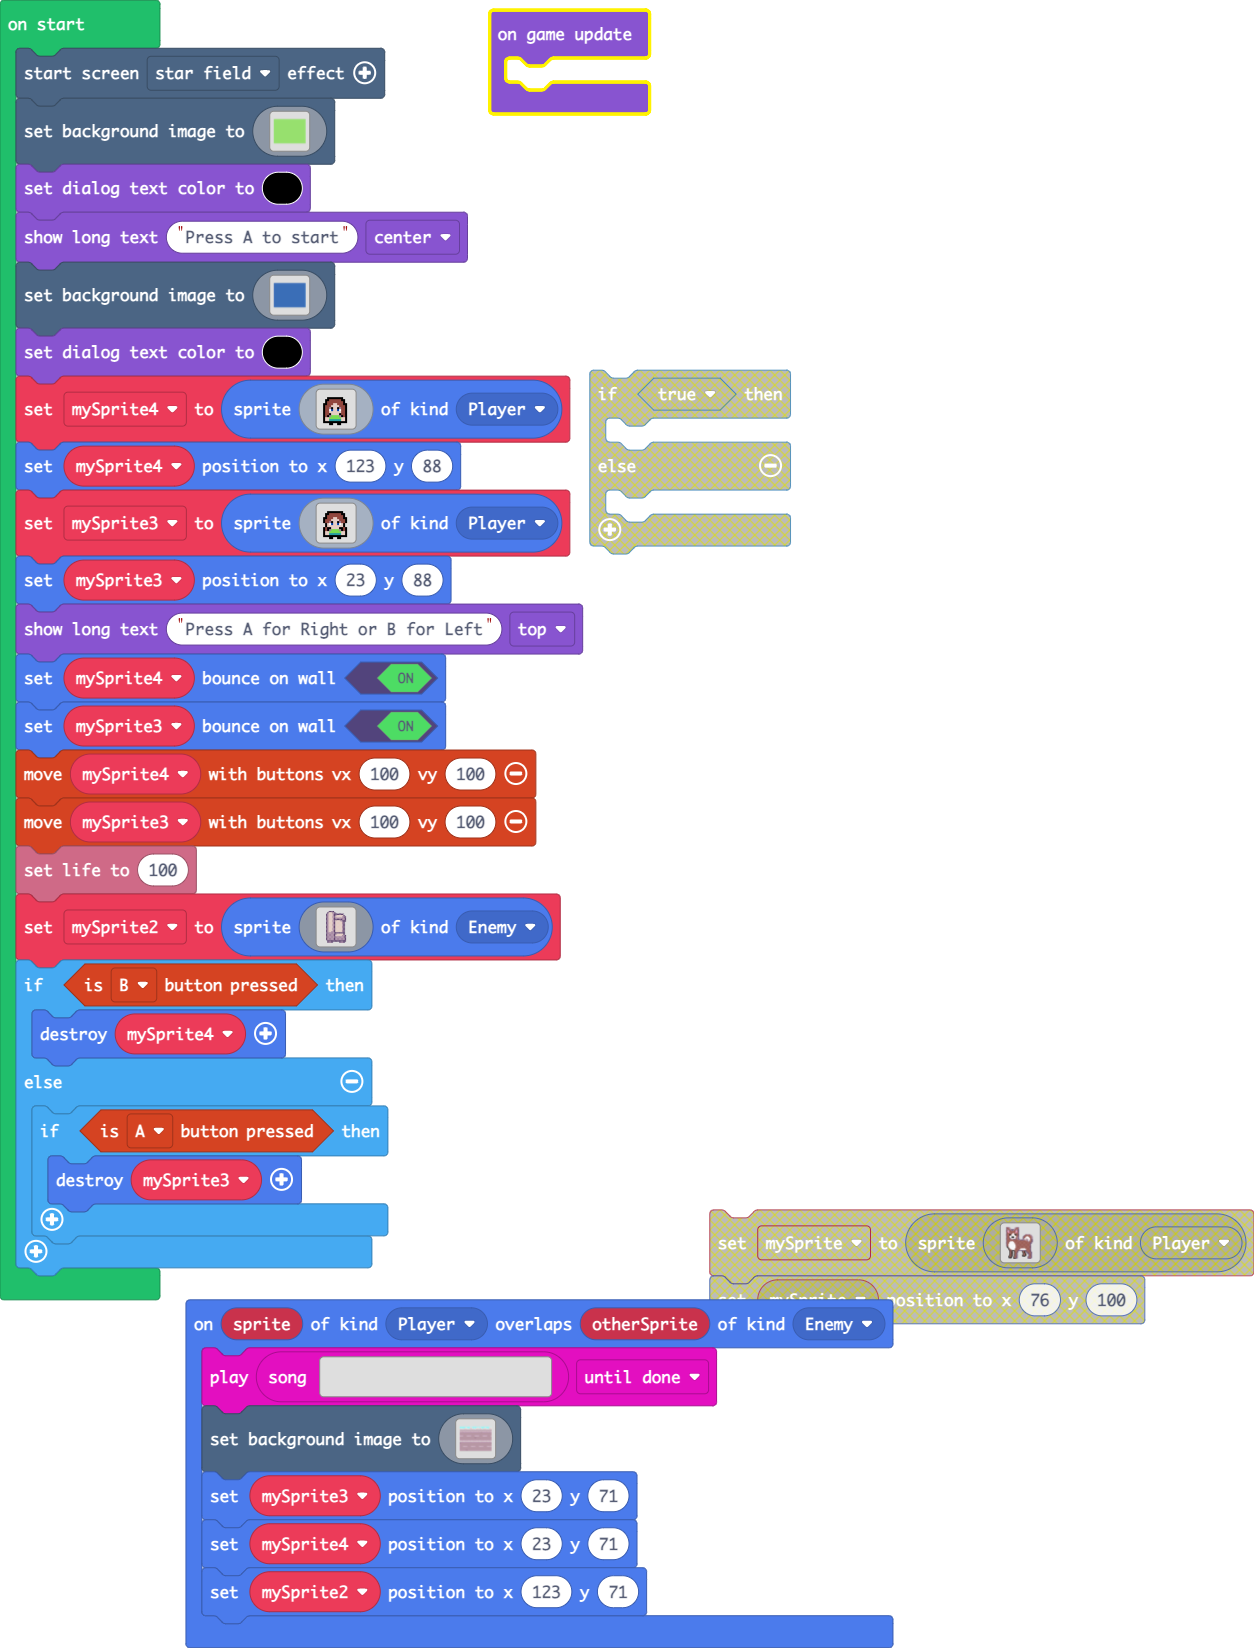
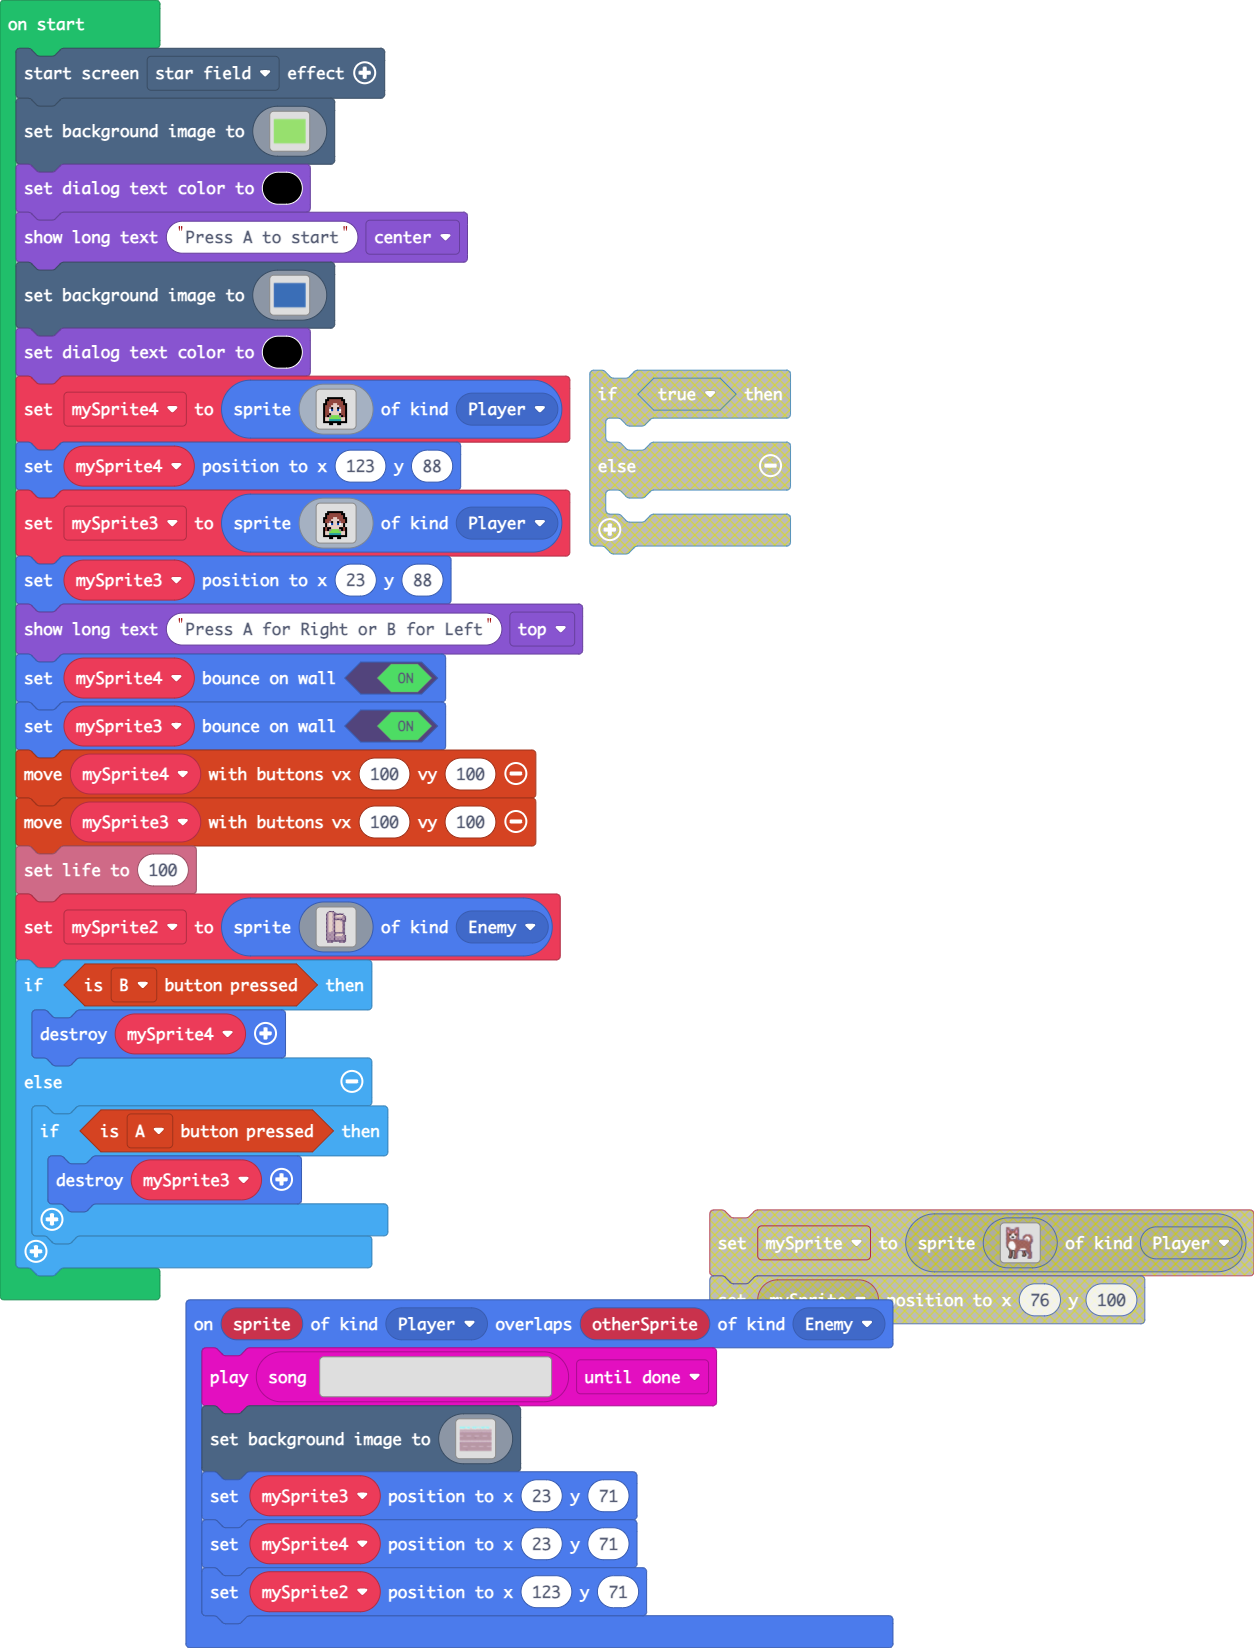
Removed Block

Changed region(s): [[0.3732, 0.0, 0.5287, 0.0928]]

diff --git a/main.ts b/main.ts
@@ -454,6 +454,3 @@ if (controller.B.isPressed()) {
         sprites.destroy(mySprite3)
     }
 }
-game.onUpdate(function () {
-	
-})
